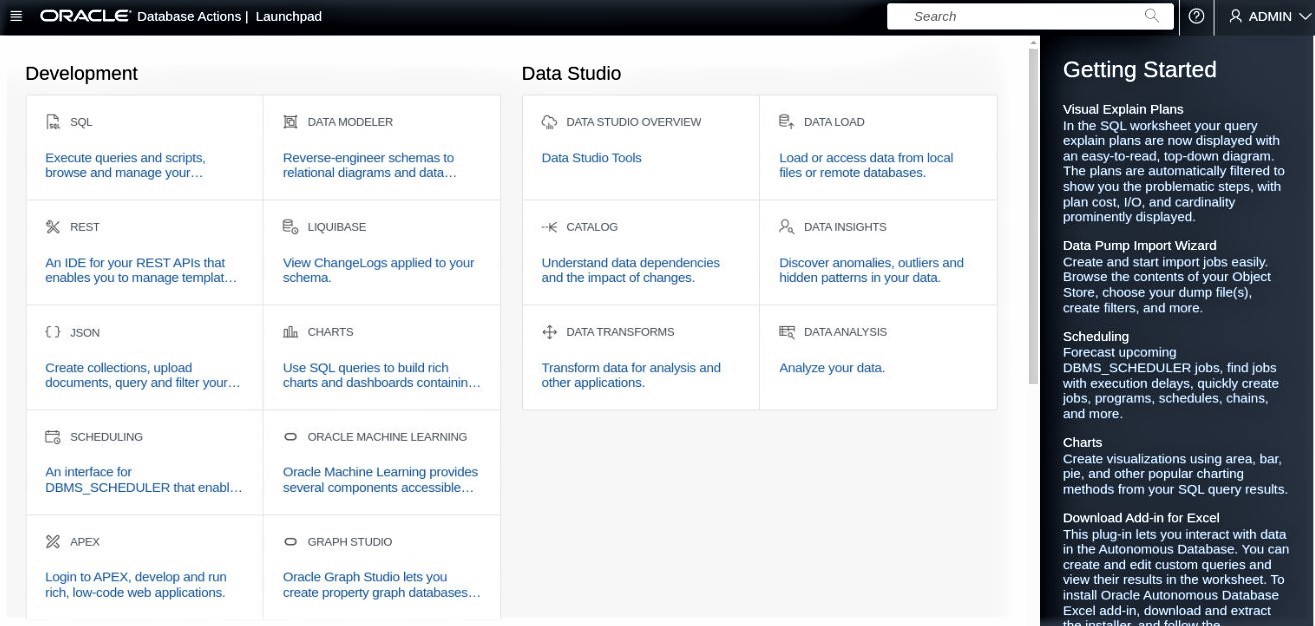
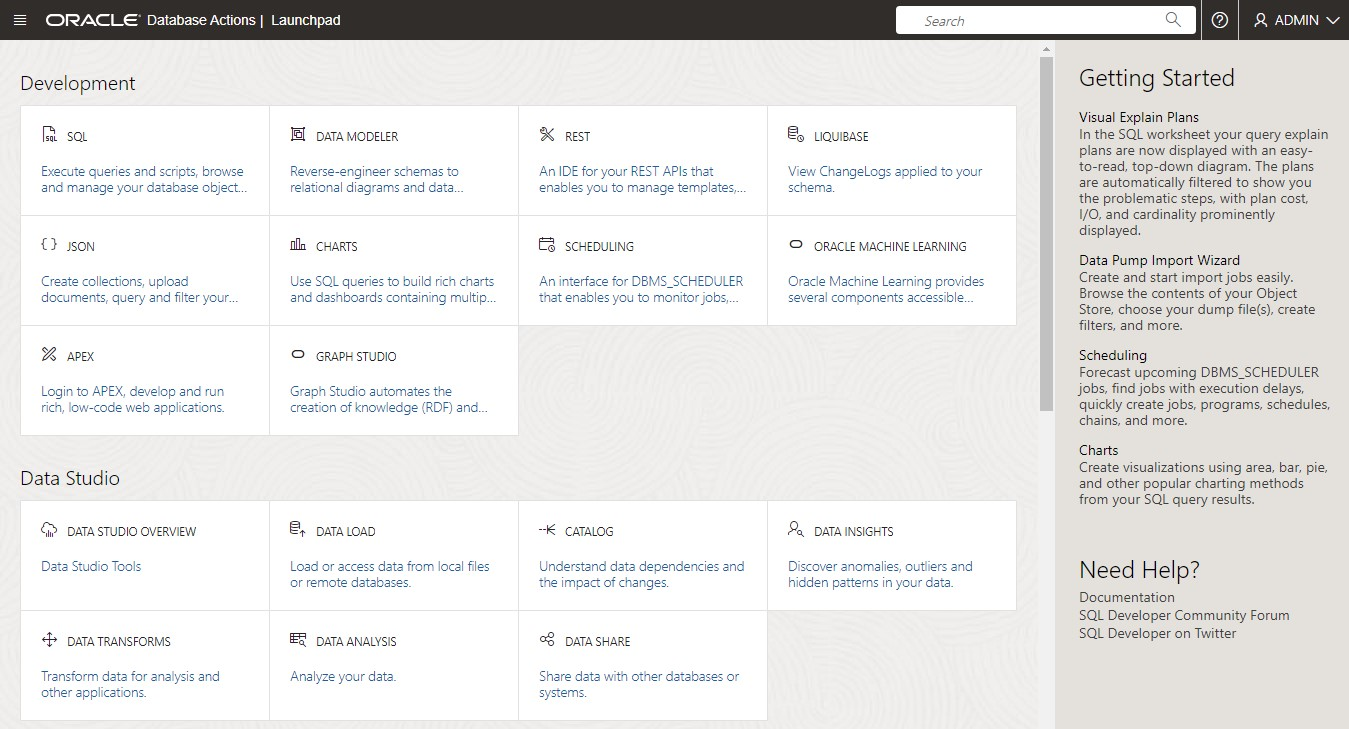
Updated screenshots (#46)
The OCI interface changed and I updated the screenshots on Database Actions button and menu.

diff --git a/oml-services/preparation/preparation.md b/oml-services/preparation/preparation.md
@@ -30,8 +30,9 @@ Estimated Lab Time: 15 minutes
 * In the Autonomous Database instance detail page, click on the **Database Actions** button.
 ![ADB instance dbactions](images/adb-homepage-dbactions.jpg)
 
-* The Database Actions launchpad page is now open and connected by default with the ADMIN user. Here we have multiple tools available to easily manage and use the database, develop new applications or REST modules, or manage data inside the database.
-In the Database Actions launchpad scroll to the Administration section and click **DATABASE USERS**.
+* Database actions provides browser-based tools for your Autonomous Database, including tools for user management, SQL worksheets to run queries, Data Studio to load and export data, and more.
+
+* Click **DATABASE USERS**.
 ![ADB db users](images/dbactions-database-users.jpg)
 
 * In the User Management page, we see ADMIN as the current user and other predefined users.
@@ -78,22 +79,18 @@ Click on the **+ Create User** button on the right side to create another user.
 * The file is displayed in the Data Loading process with the status Pending. Click on the hamburger menu on the right and click **Settings**.
 ![ADB web SQL data load settings ](images/sqldeveloper-dataload-edit.jpg)
 
-* The file is parsed and a preview is displayed on the screen. Check the preview and click **Next**.
+* The file is parsed and a preview is displayed on the screen. Check the preview and    click **Next**.
 ![ADB web SQL data load file parse](images/sqldeveloper-dataload-filedesc.jpg)
 
-* The Table Definition screen.
-![ADB web SQL data load destination table](images/sqldeveloper-dataload-tabledesc.jpg)
-
-Here, you should update the following:
+* In the Table Definition screen you should update the following:
  - Change the target Schema to **OMLUSER**
  - Change the target Table Name to **CUSTOMER_INSURANCE**
-
+  
 You can keep the default Create New Table option and mapping options.
 
-Click **All Files**.
+ * Click **Upload**.
+![ADB web SQL data load destination table](images/sqldeveloper-dataload-tabledesc.jpg)
 
-* Notice the details on the file loading changed. Click the green run button on the Data Loading process.
-![ADB web SQL data load run](images/sqldeveloper-dataload-run.jpg)
 
 * The status changes to Running.
 ![ADB web SQL data load run status running](images/sqldeveloper-dataload-running.jpg)

diff --git a/oml-services/oml-notebook-and-automl-ui/oml-notebook-and-automl-ui.md b/oml-services/oml-notebook-and-automl-ui/oml-notebook-and-automl-ui.md
@@ -22,6 +22,9 @@ Estimated Time: 15 minutes
 * In the Autonomous Database instance details page. Click on the Database Actions button.
   ![ADB instance home](images/adb-homepage-dbactions.jpg)
 
+* Click **View all database actions**.
+  ![ADB instance home](images/adb-homepage-dbactions_view_all.jpg)
+
 * The Database Actions launchpad page is now open and connected by default with the ADMIN user.
   ![ADB DB Actions](images/dbactions-homepage.jpg)
 
@@ -56,7 +59,7 @@ Estimated Time: 15 minutes
  Notice the columns ``LTV`` and ``LTV_BIN`` when you scroll to the right. These are our targets for the machine learning process.
 
 
-  * Create the training table. For our AutoML UI a training table is not mandatory because it has the train/test split in the process. Also we can exclude columns later in the process. Considering this demo environment we are still spliting the data in train and test.
+  * Create the training table. For our AutoML UI a training table is not mandatory because it has the train/test split in the process. Also we will exclude columns later in the process. Considering this demo environment we are still spliting the data in train and test.
 
      ```
      <copy>
@@ -183,7 +186,7 @@ Estimated Time: 15 minutes
     - Name: is prefilled with the Model name.
     - URI: choose a specific URI, for example: **classsvmg**
     - Version: **1**
-    - Namespace: OML
+    - Namespace: **OML**
 
 
   Copy the Model URI in an accessible place because we are going to use it in the next sections of the workshop.

diff --git a/oml-services/scoring-oml-using-rest-services/scoring-oml-using-rest-services.md b/oml-services/scoring-oml-using-rest-services/scoring-oml-using-rest-services.md
@@ -50,18 +50,21 @@ Estimated Time: 15 minutes
   Use the following URL structure to access the REST endpoints:
 
   ```
-  https://\<oml-cloud-service-location-url\>.oraclecloudapps.com
+  https://**oml-cloud-service-location-url**.oraclecloudapps.com
   ```
 
   Where:
-     - `<oml-cloud-service-location-url>`: is a variable containing the REST server portion of the Oracle Machine Learning User Management Cloud Service instance URL that includes the tenancy ID, region and database name.
+     - `**oml-cloud-service-location-url**`: is a variable containing the REST server portion of the Oracle Machine Learning User Management Cloud Service instance URL that includes the tenancy ID, region and database name.
 
 #### Obtain the `oml-cloud-service-location-url` URL
 
-  * In the Autonomous Database instance details page. Click on the Service Console button.
+  * In the Autonomous Database instance details page. Click on the Database Actions button.
   ![ADB instance home](images/adb-homepage-dbactions.jpg)
 
-  * The service console is opened.
+  * Click **View all database actions**.
+  ![ADB instance home](images/adb-homepage-dbactions_view_all.jpg)
+
+  * The The Database Actions launchpad page is now open.
   ![ADB DB Actions](images/dbactions-homepage.jpg)
 
   * Click on the menu on the top left side on the page and scroll to the right to the **Related Services** section. Click on the **Oracle Machine Learning RESTful services**.
